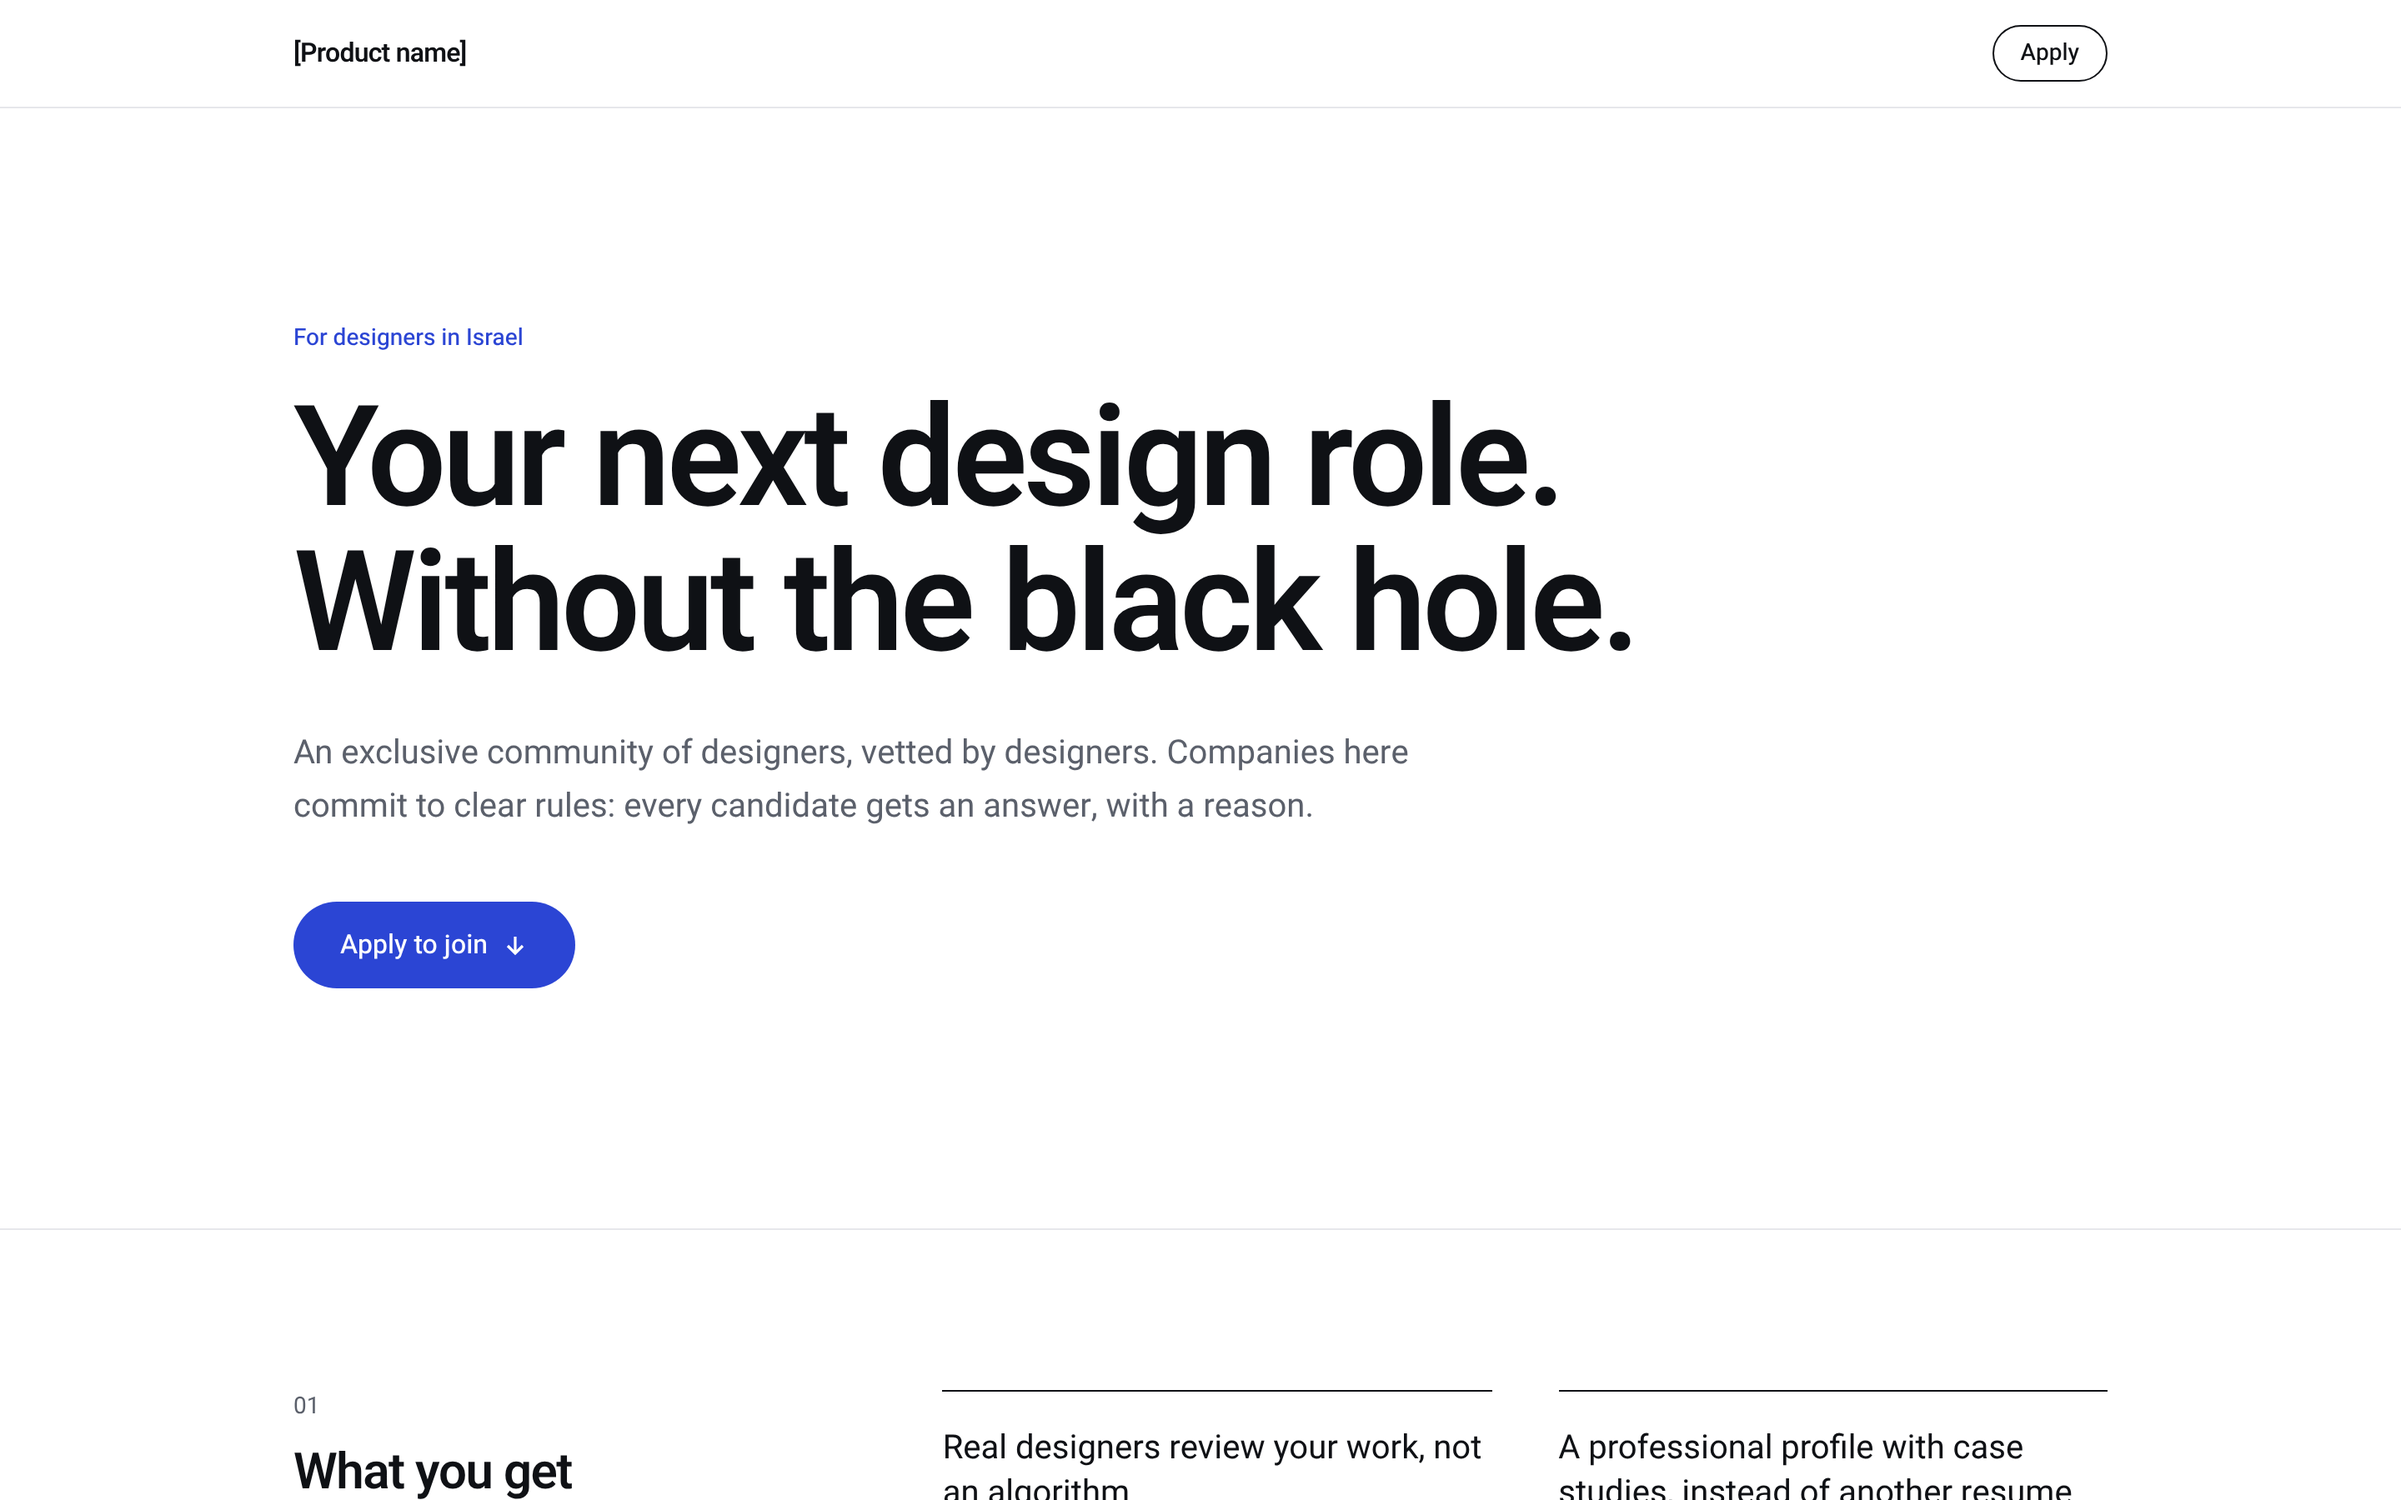
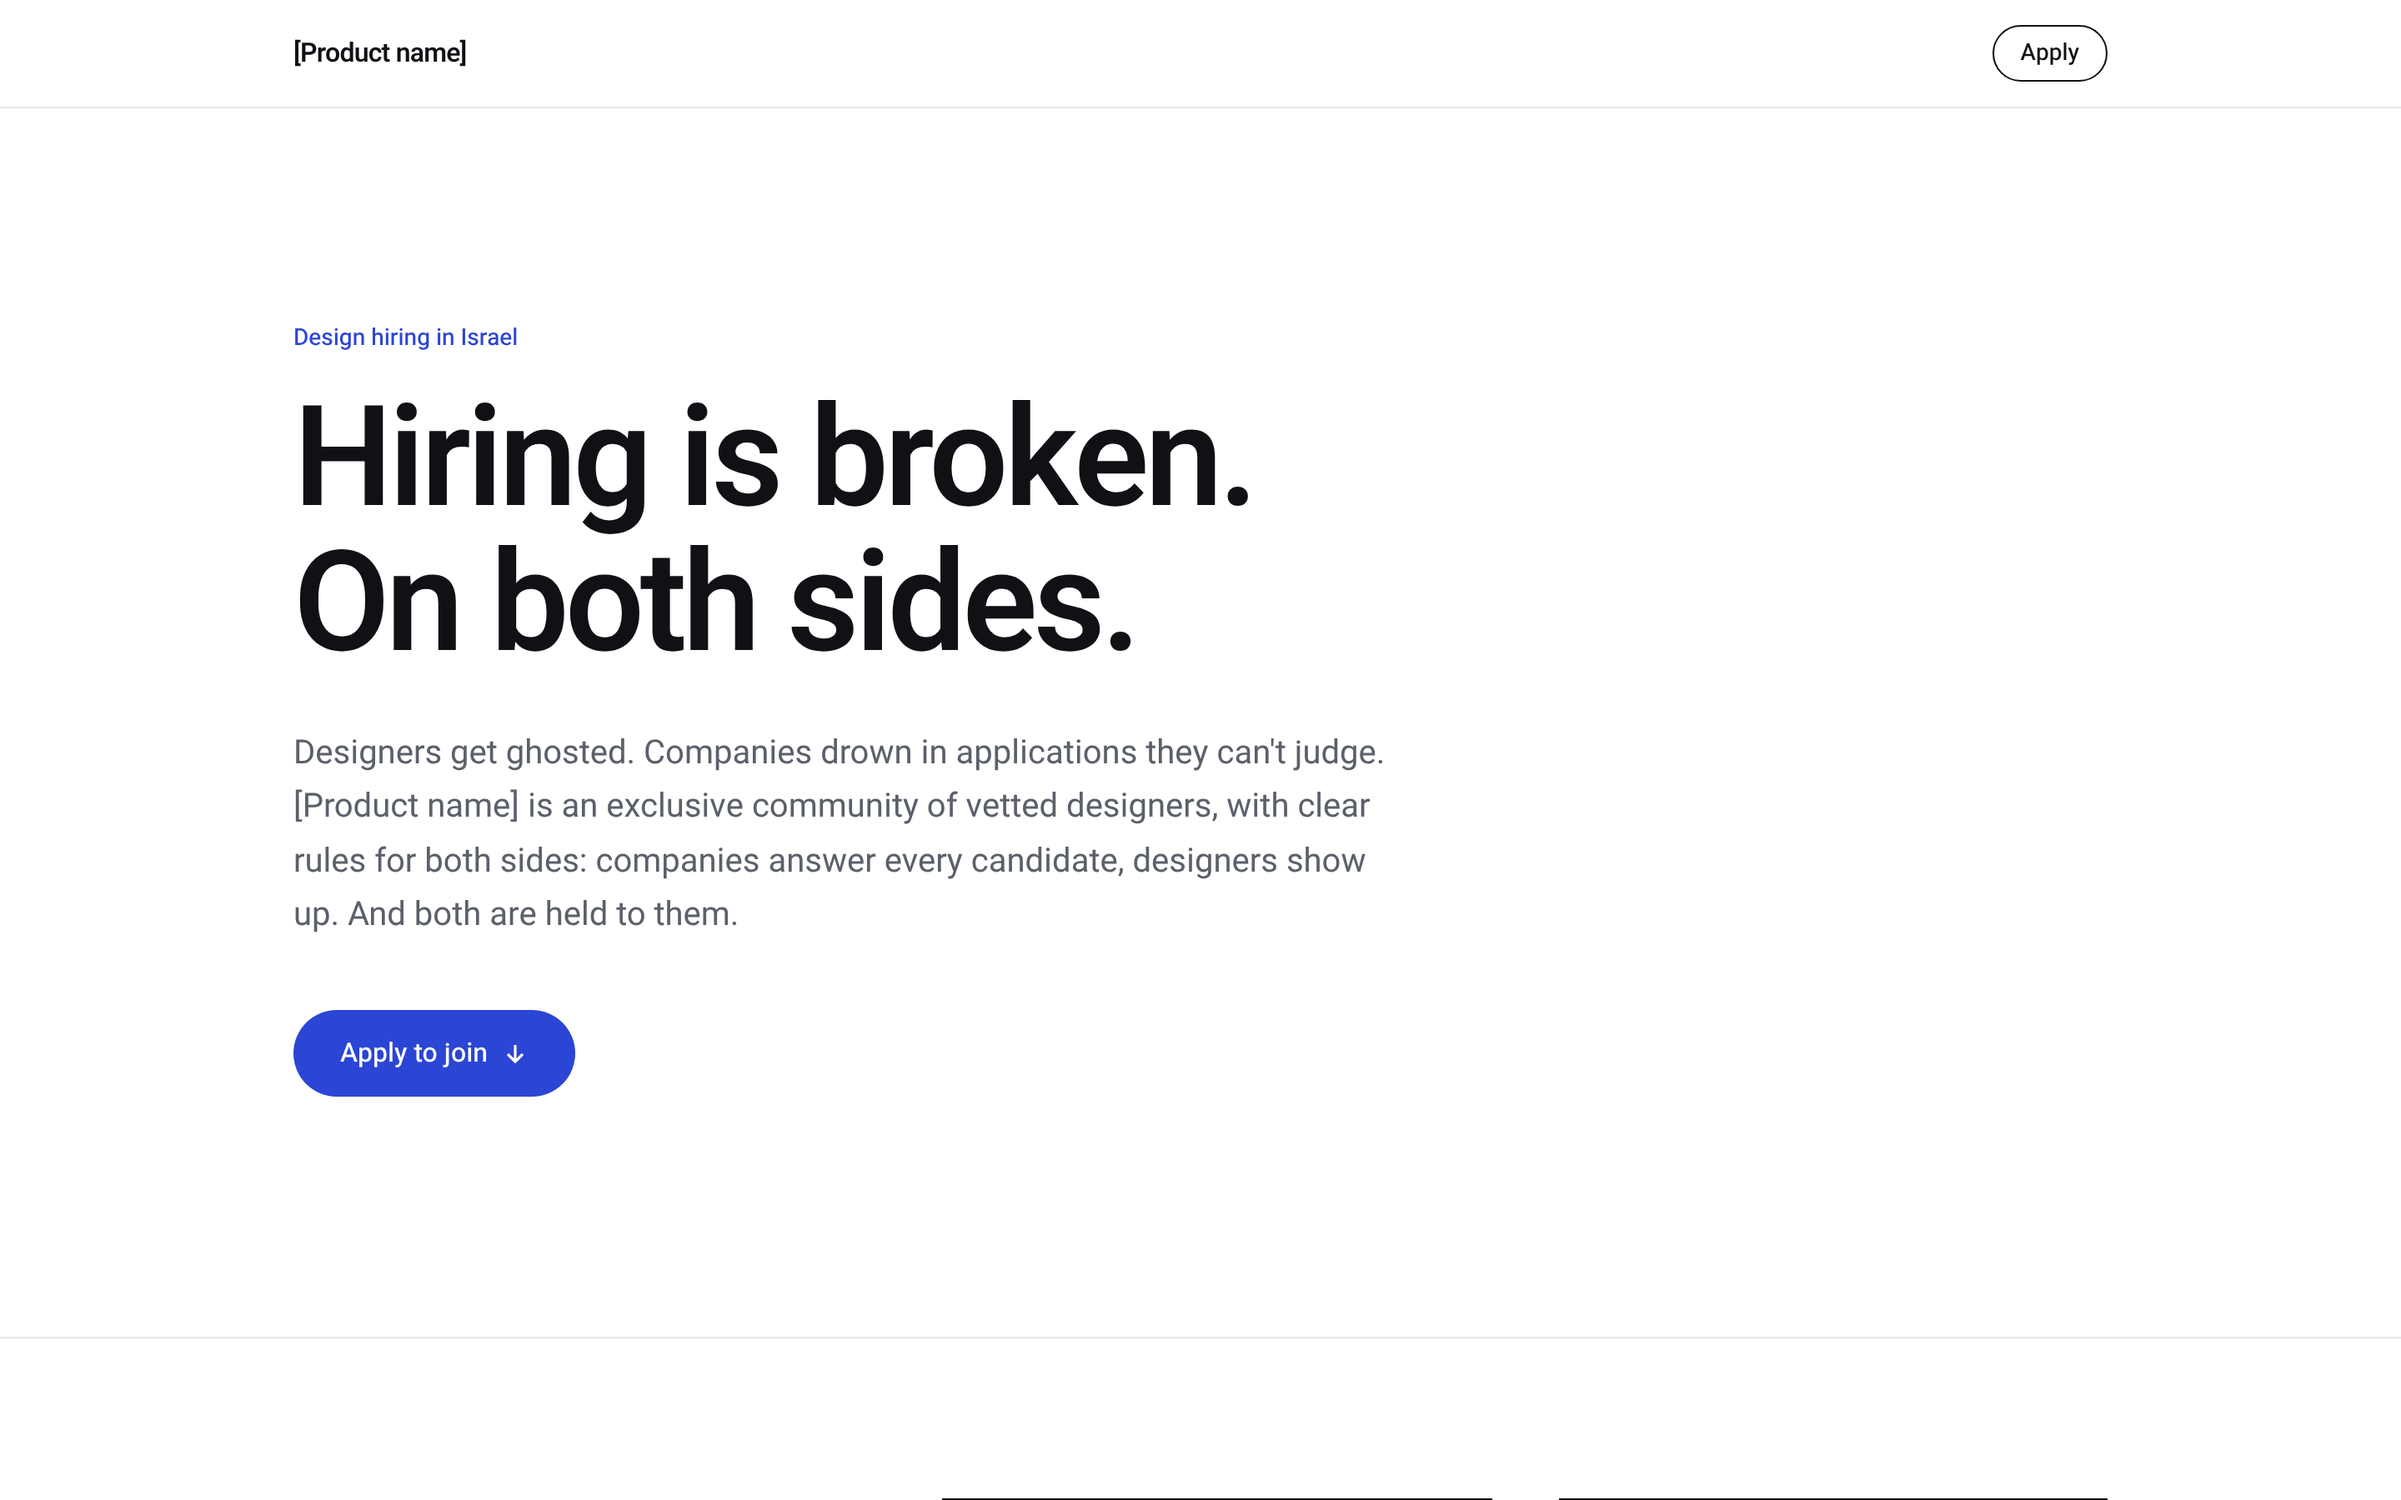
Hero: 'Hiring is broken. On both sides.' with a two-sided subheadline
Claude-Session: https://claude.ai/code/session_0196WSr9f1eC6p38q1msxF84

diff --git a/src/app/page.tsx b/src/app/page.tsx
@@ -4,6 +4,7 @@ import { ApplicationForm } from "@/components/application-form";
 import { Container } from "@/components/container";
 import { SiteFooter } from "@/components/site-footer";
 import { SiteHeader } from "@/components/site-header";
+import { PRODUCT_NAME } from "@/config/site";
 
 const BENEFITS = ["review", "profile", "answers", "control"] as const;
 const STEPS = ["apply", "review", "profile"] as const;
@@ -29,9 +30,9 @@ export default async function LandingPage() {
           <Container className="pb-20 pt-16 sm:pb-28 sm:pt-24 lg:pb-36 lg:pt-32">
             <p className="text-sm font-medium text-accent">{t("hero.eyebrow")}</p>
             <h1 className="mt-5 max-w-4xl text-[2.6rem] font-semibold leading-[1.04] tracking-[-0.03em] sm:text-6xl lg:text-[5.25rem]">
-              {t("hero.headline")}
+              {t.rich("hero.headline", { br: () => <br /> })}
             </h1>
-            <p className="mt-7 max-w-2xl text-lg leading-relaxed text-muted sm:text-xl">{t("hero.subheadline")}</p>
+            <p className="mt-7 max-w-2xl text-lg leading-relaxed text-muted sm:text-xl">{t("hero.subheadline", { product: PRODUCT_NAME })}</p>
             <a
               href="#apply"
               className="mt-10 inline-flex items-center gap-2 rounded-full bg-accent px-7 py-3.5 text-base font-medium text-white transition-colors hover:bg-accent-strong"

diff --git a/src/app/layout.tsx b/src/app/layout.tsx
@@ -17,7 +17,7 @@ export async function generateMetadata(): Promise<Metadata> {
   const t = await getTranslations("meta");
   return {
     title: t("title", { product: PRODUCT_NAME }),
-    description: t("description"),
+    description: t("description", { product: PRODUCT_NAME }),
     metadataBase: process.env.NEXT_PUBLIC_SITE_URL
       ? new URL(process.env.NEXT_PUBLIC_SITE_URL)
       : undefined,

diff --git a/designer-network-spec.md b/designer-network-spec.md
@@ -200,8 +200,8 @@ NEXT_PUBLIC_SUPABASE_URL, NEXT_PUBLIC_SUPABASE_ANON_KEY, SUPABASE_SERVICE_ROLE_K
 Product name not decided: placeholder `[Product name]` in one constant.
 
 **Hero**
-- Headline: Your next design role. Without the black hole.
-- Subheadline: An exclusive community of designers, vetted by designers. Companies here commit to clear rules: every candidate gets an answer, with a reason.
+- Headline: Hiring is broken. On both sides.
+- Subheadline: Designers get ghosted. Companies drown in applications they can't judge. [Product name] is an exclusive community of vetted designers, with clear rules for both sides: companies answer every candidate, designers show up. And both are held to them.
 - CTA: Apply to join
 
 **What you get**
